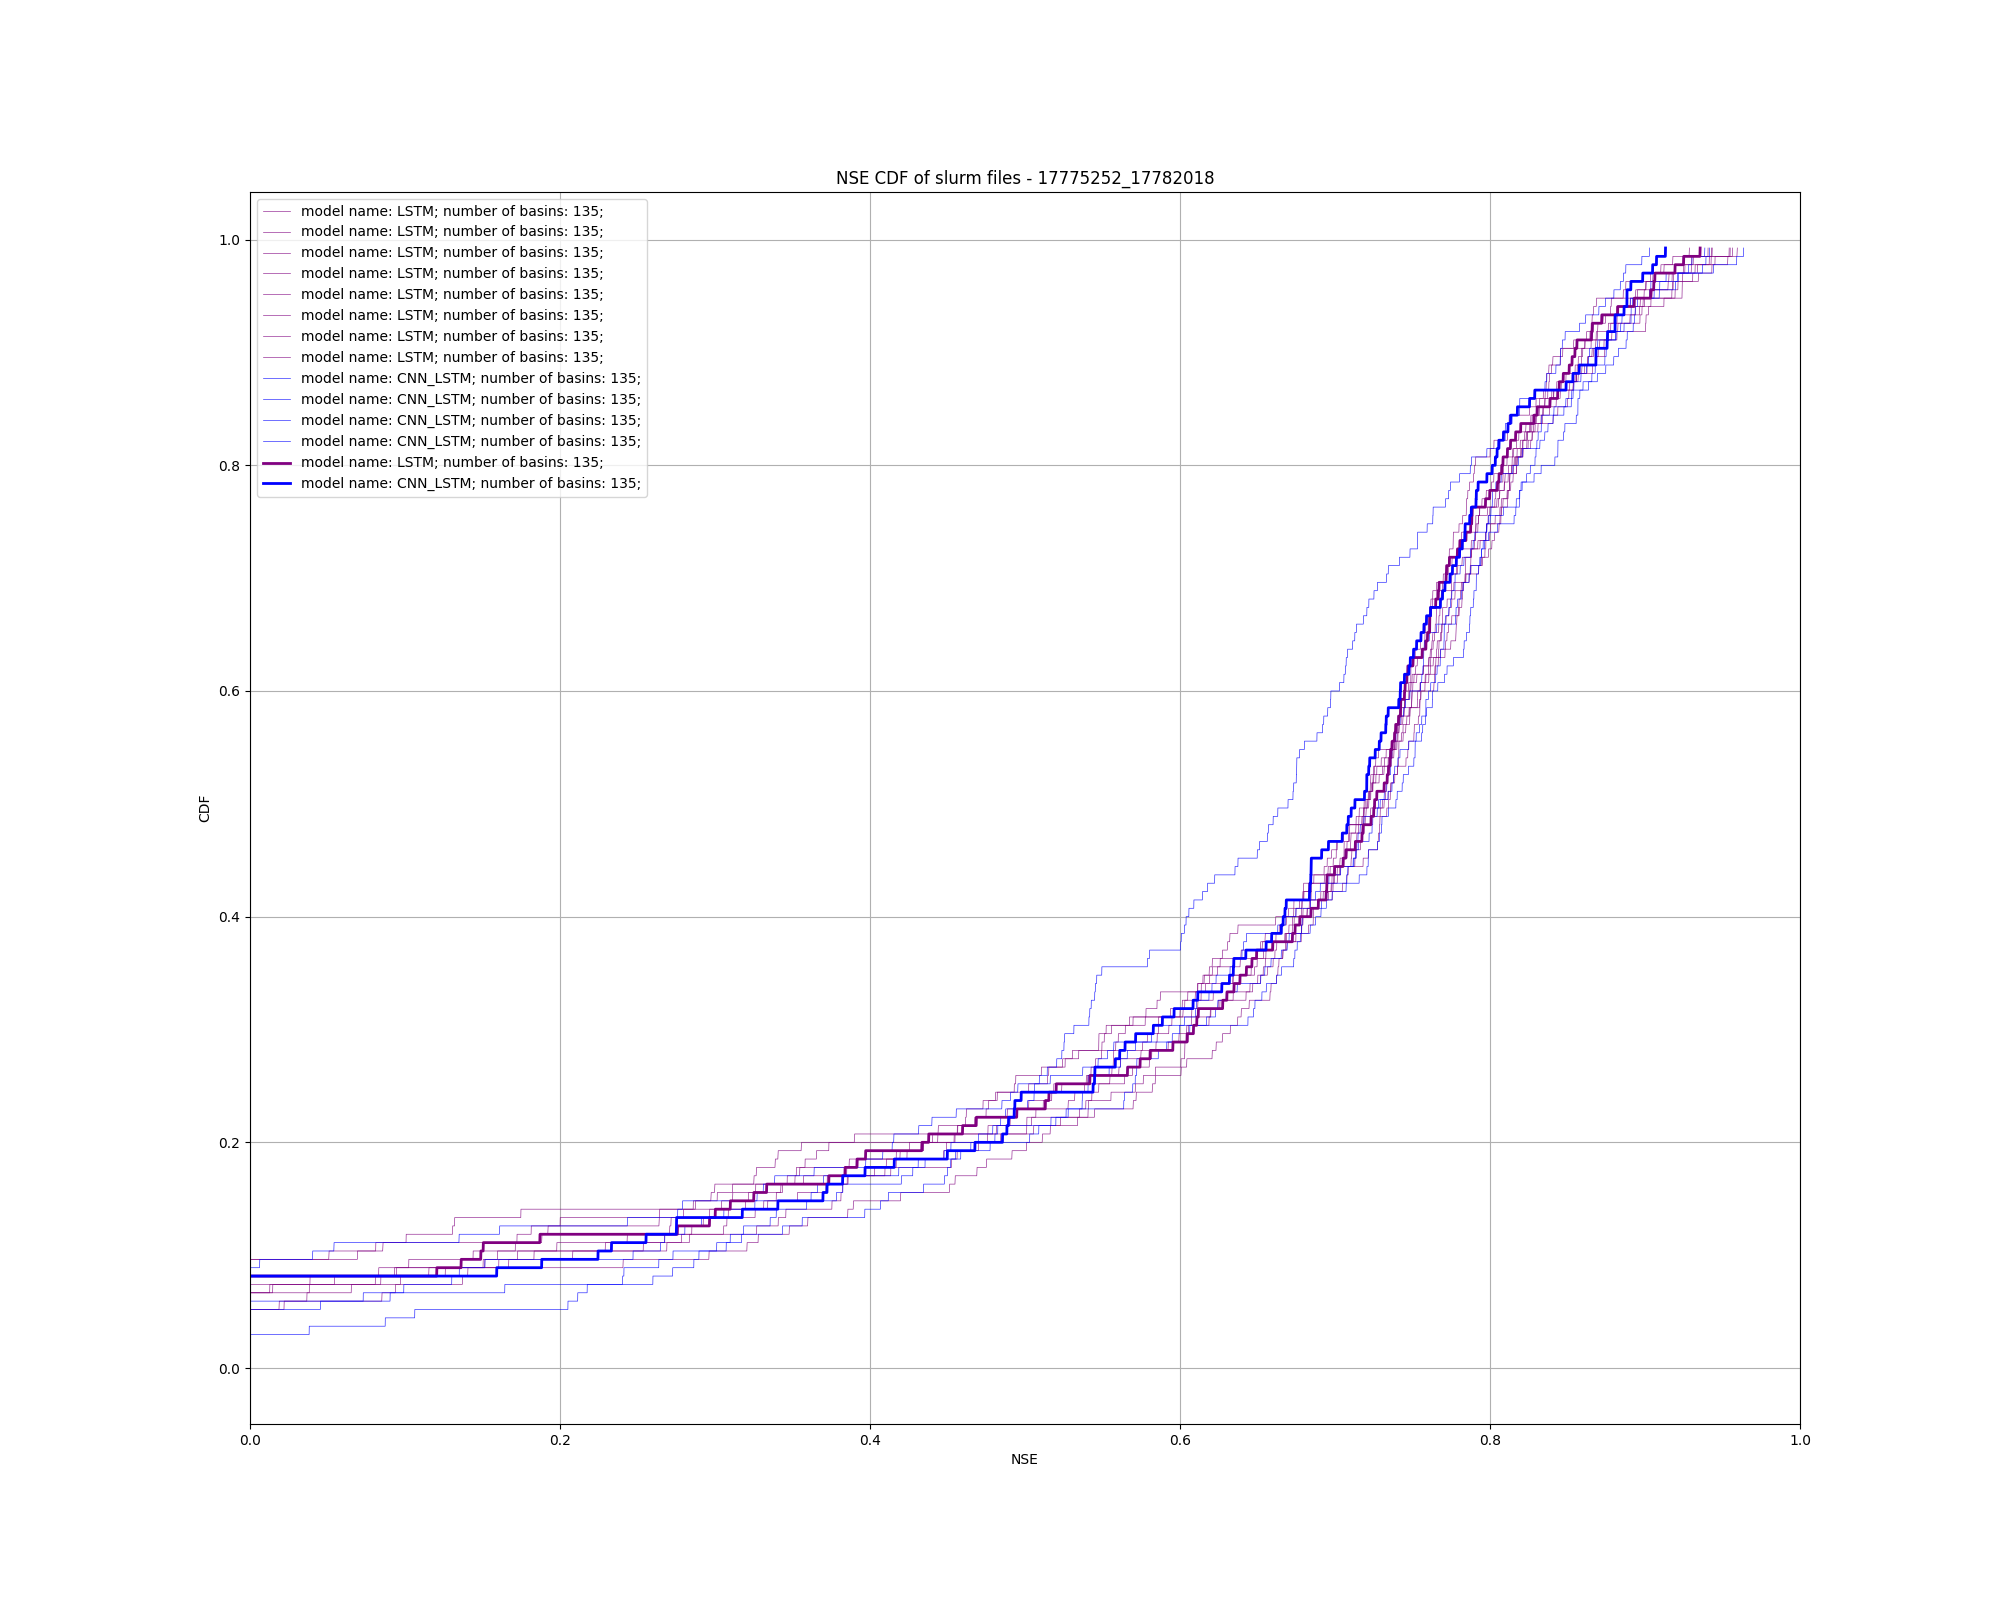
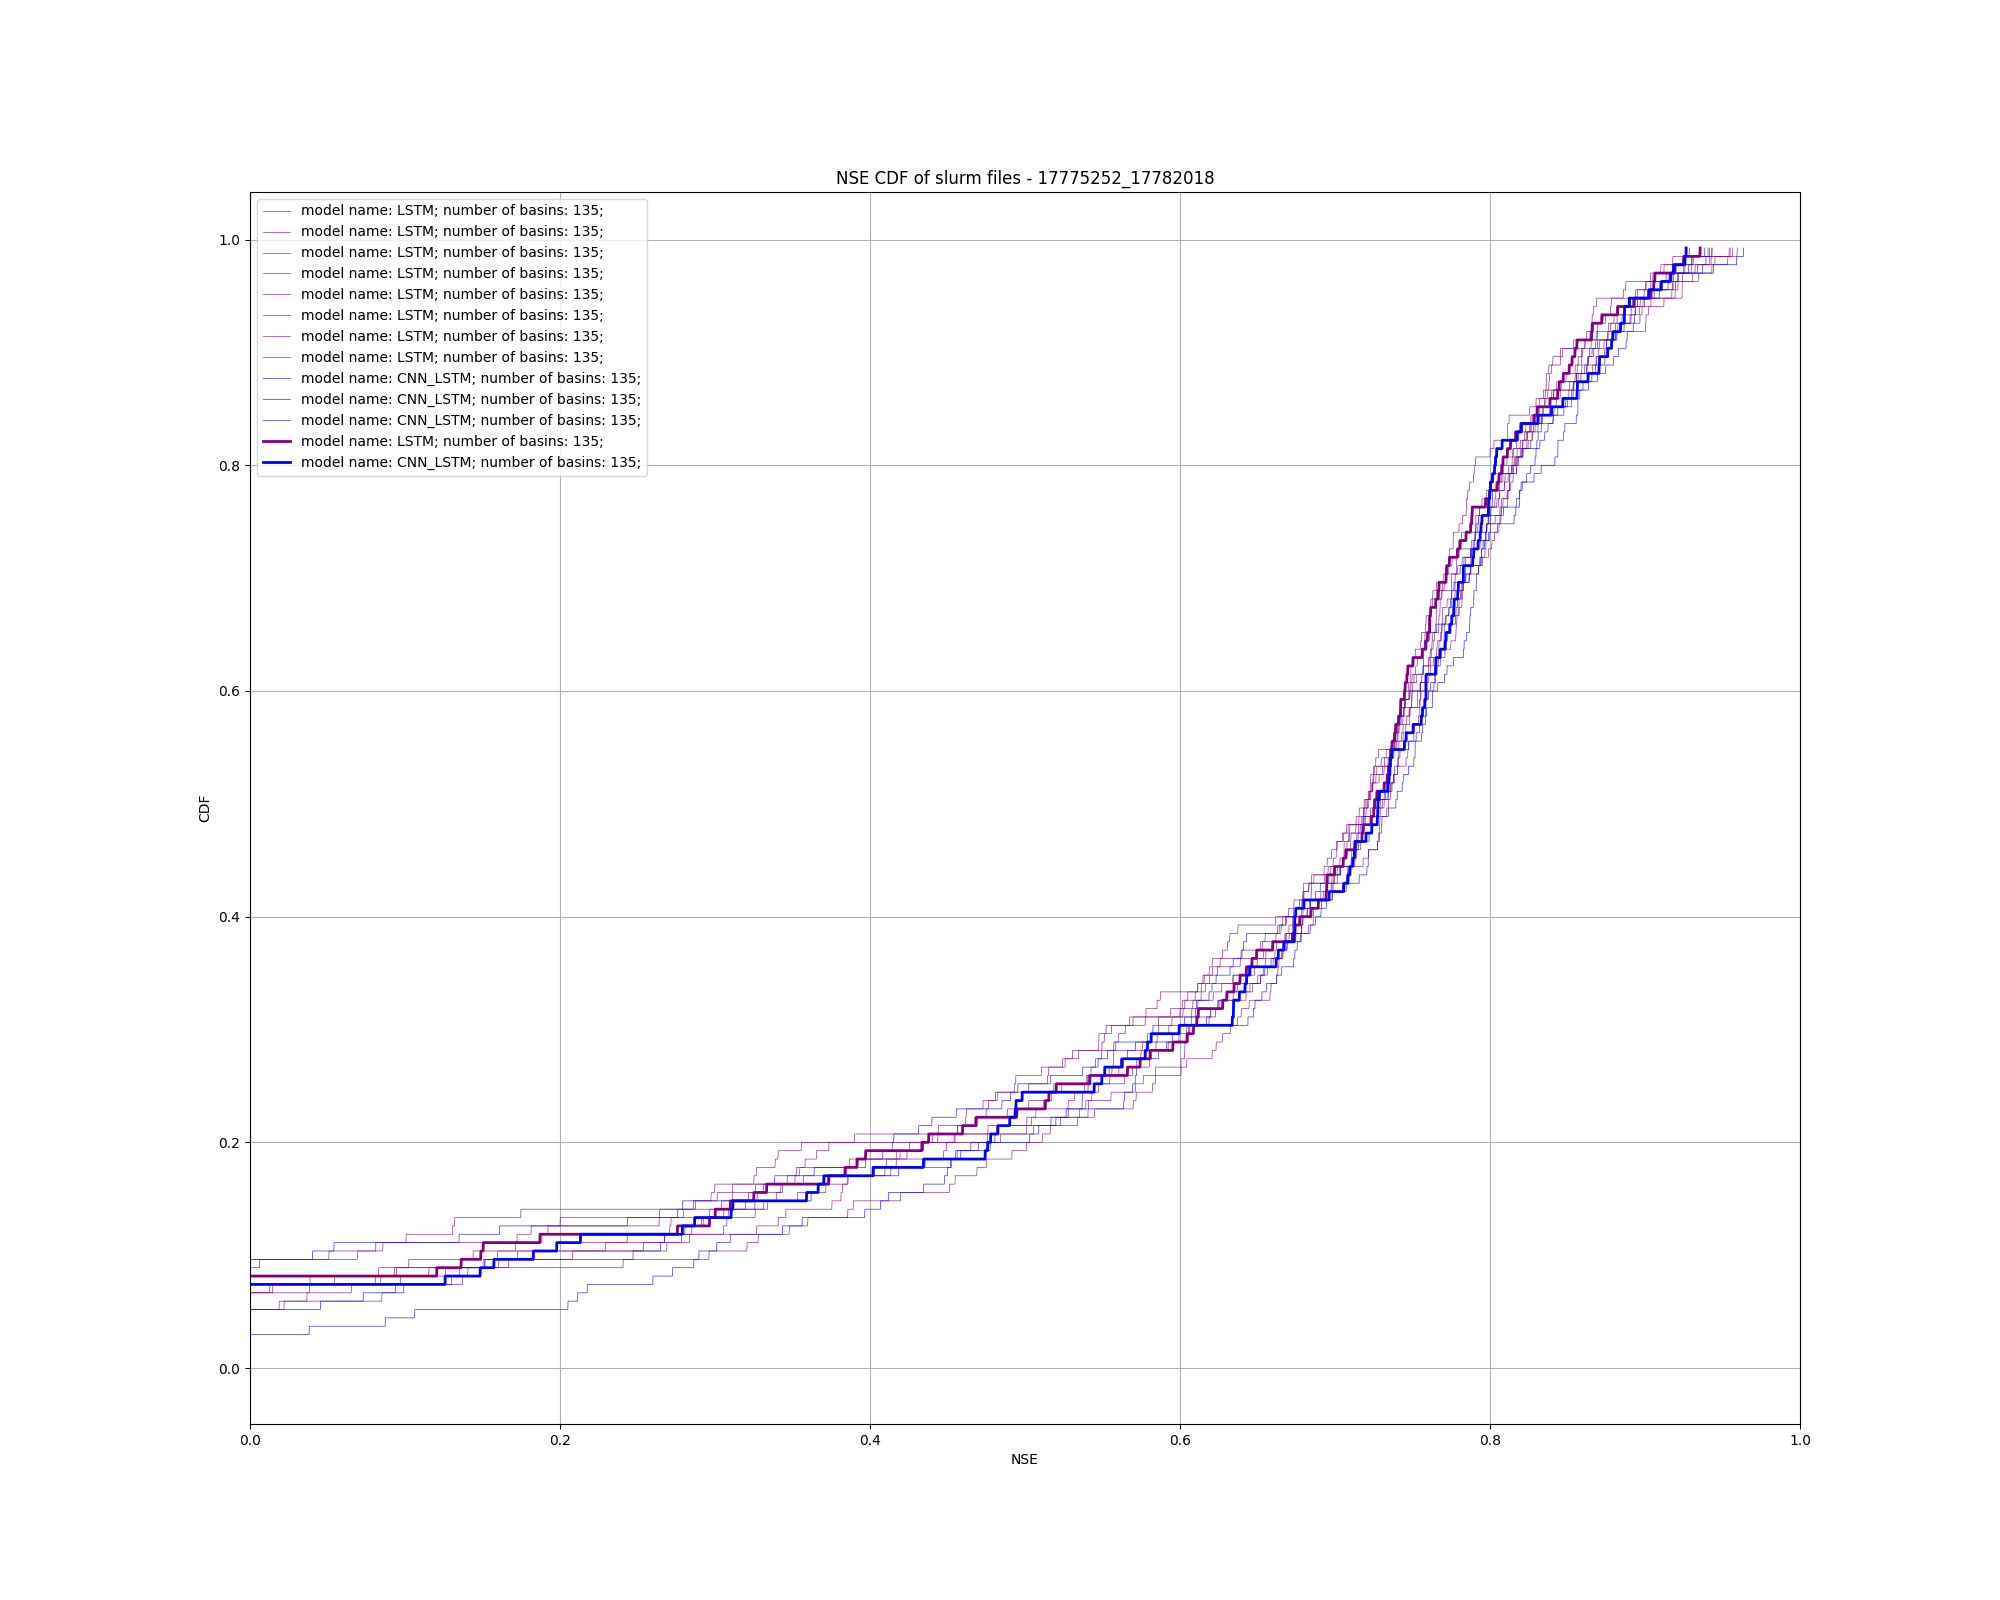
changes to check larger images

diff --git a/src/FloodML_runner.py b/src/FloodML_runner.py
@@ -315,11 +315,11 @@ class FloodML_Runner:
             validation_loss_single_pass_queue = ctx.Queue()
             nse_last_pass_queue = ctx.Queue()
             preds_obs_dicts_ranks_queue = ctx.Queue()
-            os.environ['MASTER_ADDR'] = "localhost"
-            if is_port_in_use(10005):
-                os.environ['MASTER_PORT'] = "10006"
-            else:
-                os.environ['MASTER_PORT'] = "10005"
+            # os.environ['MASTER_ADDR'] = "localhost"
+            # if is_port_in_use(10005):
+            #     os.environ['MASTER_PORT'] = "10006"
+            # else:
+            #     os.environ['MASTER_PORT'] = "10005"
             mp.spawn(self.start_run,
                      args=(self.num_processes_ddp,
                            training_loss_single_pass_queue,

diff --git a/src/FloodML_Base_Dataset.py b/src/FloodML_Base_Dataset.py
@@ -79,7 +79,8 @@ class FloodML_Base_Dataset(Dataset):
         self.folder_with_basins_pickles = f"{main_folder}/pickled_basins_data"
         self.list_stations_static = []
         self.suffix_pickle_file = "_spatial" if "cnn" in model_name.lower() or "conv" in model_name.lower() else ""
-        self.suffix_pickle_file = self.suffix_pickle_file + "_SR" if self.use_super_resolution else self.suffix_pickle_file
+        self.suffix_pickle_file = self.suffix_pickle_file + "_SR" \
+            # if self.use_super_resolution else self.suffix_pickle_file
 
         self.x_mean_per_basin_dict = self.read_pickle_if_exists(
             f"{self.folder_with_basins_pickles}/x_mean_dict.pkl{self.suffix_pickle_file}")

diff --git a/src/create_CDF_NSE_comparison_plot_from_slurm_output.py b/src/create_CDF_NSE_comparison_plot_from_slurm_output.py
@@ -131,7 +131,8 @@ def create_dict_basin_id_to_NSE_my_code(logs_filename):
 
 
 def plot_NSE_CDF_graphs_my_code():
-    input_file_names = ["slurm-17775252.out", "slurm-17782018.out"]
+    # "slurm-17828539.out"
+    input_file_names = ["slurm-17775252.out", "slurm-17782018.out", "slurm-17828539.out"]
     input_file_paths = [Path("../slurm_output_files/" + file_name).resolve() for file_name in input_file_names]
     dict_all_runs_from_all_files = {}
     dict_avg_runs_from_all_files = {}
